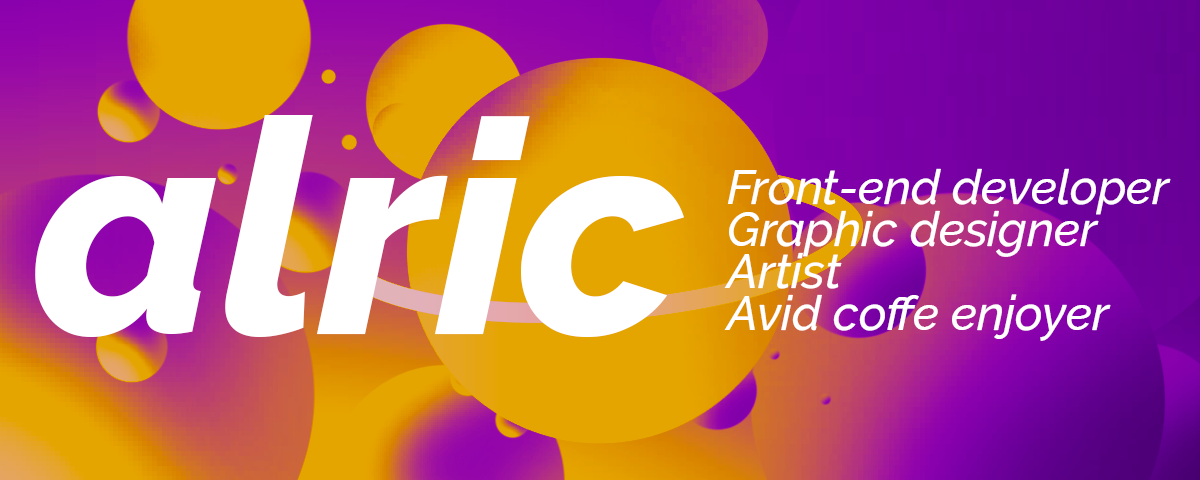
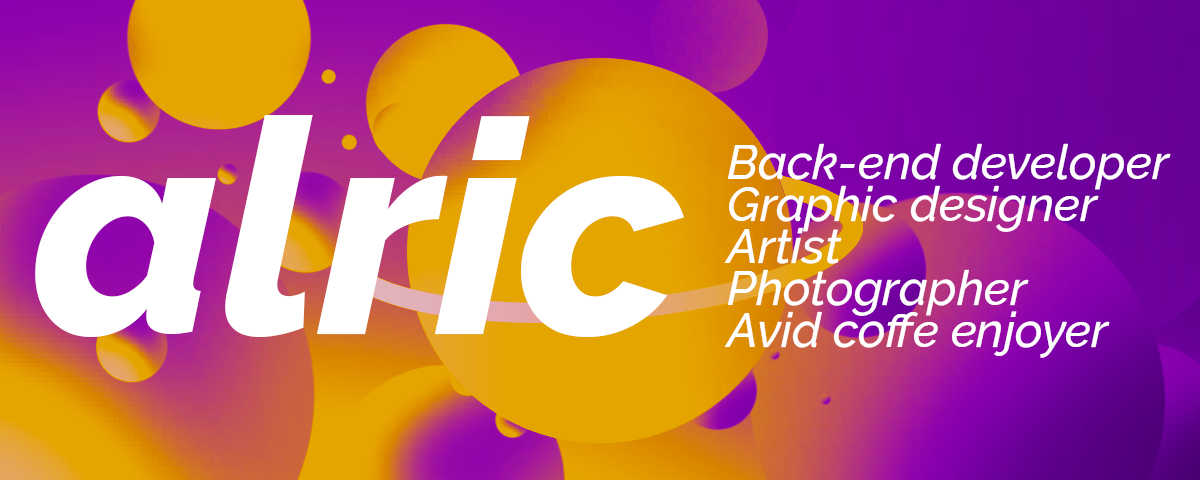
I changed a little.

Changed region(s): [[0.5858, 0.2812, 0.9867, 0.75]]

diff --git a/README.md b/README.md
@@ -5,7 +5,7 @@
 
 #### About Me 🤓
 
-Hey! I'm Alric! I have 17 years and I'm a brazilian front-end developer that is learning a lot of stuff right now. Besides coding, I really enjoy playing video-games and listening to music!
+Hey! I'm Alric! I have 17 years and I'm a brazilian back-end developer that is learning a lot of stuff right now. Besides coding, I really enjoy playing video-games and listening to music!
 
 <br />
 
@@ -25,6 +25,7 @@ These are the languages and tools that I'm using or learning how to use ;)
 [<img align="left" alt="HTML5" width="26px" src="https://raw.githubusercontent.com/github/explore/80688e429a7d4ef2fca1e82350fe8e3517d3494d/topics/html/html.png" />][HTML5]
 [<img align="left" alt="CSS3" width="26px" src="https://raw.githubusercontent.com/github/explore/80688e429a7d4ef2fca1e82350fe8e3517d3494d/topics/css/css.png" />][CSS3]
 [<img align="left" alt="JavaScript" width="26px" src="https://raw.githubusercontent.com/github/explore/80688e429a7d4ef2fca1e82350fe8e3517d3494d/topics/javascript/javascript.png" />][JavaScript]
+[<img align="left" alt="Python" width="26px" src="https://raw.githubusercontent.com/devicons/devicon/master/icons/python/python-plain.svg" />][Python]
 [<img align="left" alt="Git" width="26px" src="https://raw.githubusercontent.com/jmnote/z-icons/master/svg/git.svg" />][Git]
 [<img align="left" alt="GitHub" width="26px" src="https://raw.githubusercontent.com/jmnote/z-icons/master/svg/github.svg" />][GitHub]
 [<img align="left" alt="Terminal" width="26px" src="https://raw.githubusercontent.com/github/explore/80688e429a7d4ef2fca1e82350fe8e3517d3494d/topics/terminal/terminal.png" />][Terminal]
@@ -36,9 +37,9 @@ These are the languages and tools that I'm using or learning how to use ;)
 ---
 
 #### Some extra stuff about me! ✨
-📖 I'm currently learning HTML5, CSS3 and JS!
+📖 I'm currently learning Python!
 <br />
-📑 I plan on start learning Python and C++ 'til the end of 2021.
+📑 I plan getting good at Python 'til the end of 2022.
 <br />
 📆 My birthday is August 11!
 <br />
@@ -48,7 +49,10 @@ These are the languages and tools that I'm using or learning how to use ;)
 <br />
 🎨 I love to draw and I really enjoy doing graphic design. I use Photoshop all the time, even for silly things!
 <br />
-👓 I am severely nearsighted, so I have to use glasses all the time!
+
+📸 I really enjoy photography!
+
+<br />👓 I am severely nearsighted, so I have to use glasses all the time!
 <br />
 🎮 My favorite game genre is RPG, and my favorite game is Persona 5.
 <br />
@@ -69,6 +73,7 @@ These are the languages and tools that I'm using or learning how to use ;)
 [HTML5]: https://www.w3schools.com/html/
 [CSS3]: https://www.w3schools.com/css/default.asp
 [JavaScript]: https://www.w3schools.com/js/default.asp
+[Python]: https://www.python.org/
 [GitHub]: https://github.com/
 [Git]: https://git-scm.com/
 [Windows]: https://www.microsoft.com/pt-br/windows/
